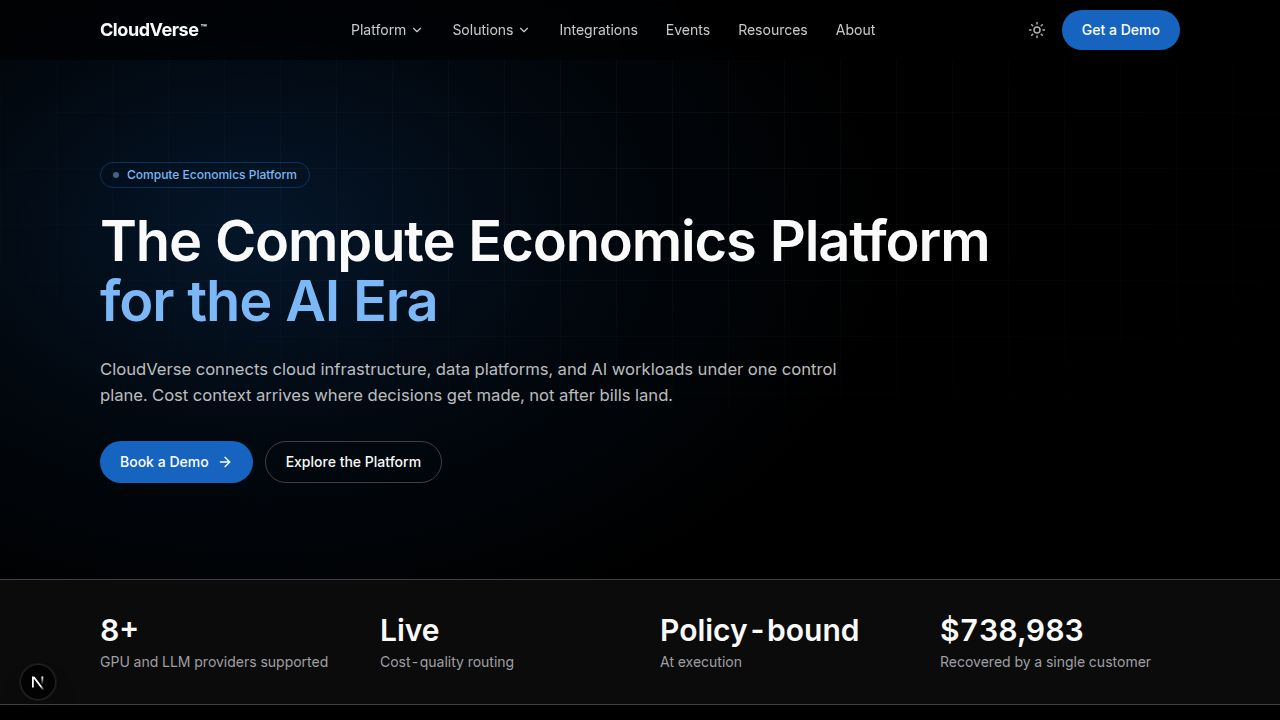
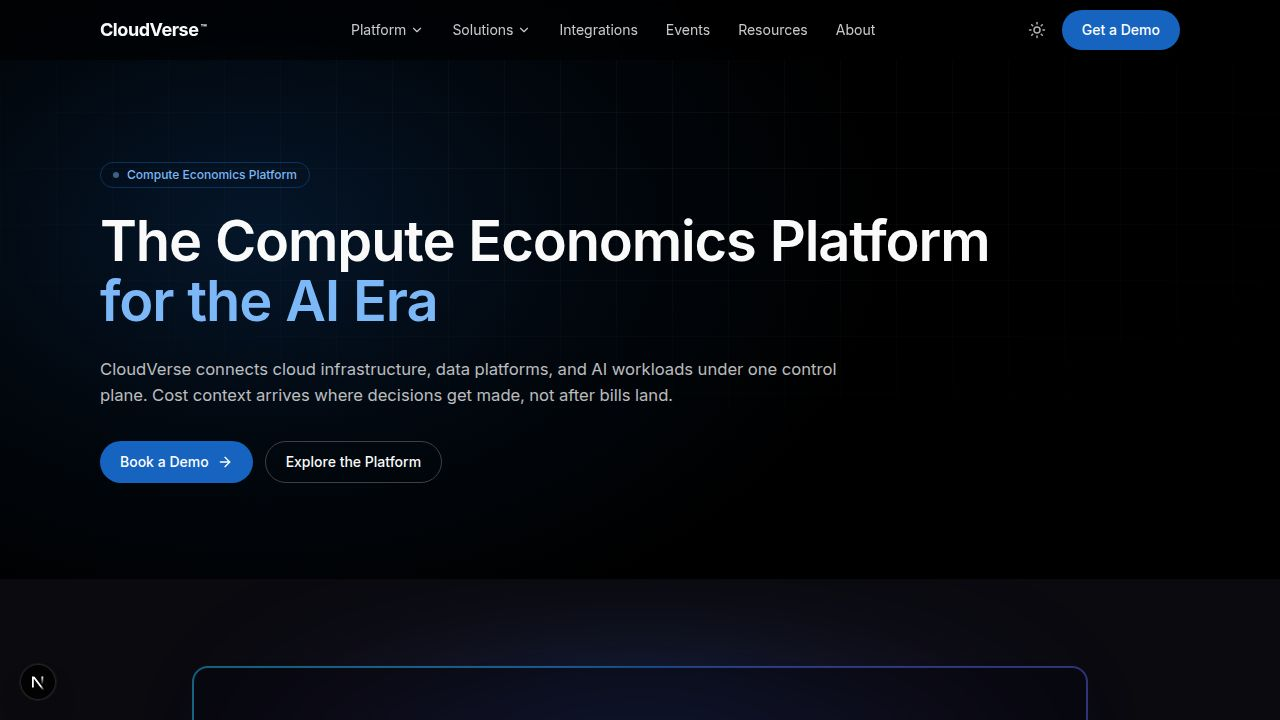
Add an animated product video to the homepage with interactive scroll effects
Updates build manifests, client reference manifest, and removes the dynamic route for resources/[slug]/page.

Replit-Commit-Author: Agent
Replit-Commit-Session-Id: abc5bffa-7bc3-4942-b97e-5bf68d11328f
Replit-Commit-Checkpoint-Type: full_checkpoint
Replit-Commit-Event-Id: 0665890a-a03d-449c-ad68-3ea9afaf62b6
Replit-Commit-Screenshot-Url: https://storage.googleapis.com/screenshot-production-us-central1/d8dacd2f-b214-4560-9121-caa3bb9575fb/abc5bffa-7bc3-4942-b97e-5bf68d11328f/KFAGZMh
Replit-Helium-Checkpoint-Created: true

diff --git a/components/home/ProductVideo.tsx b/components/home/ProductVideo.tsx
@@ -1,0 +1,74 @@
+"use client";
+
+import { useEffect, useRef, useState } from "react";
+
+export function ProductVideo() {
+  const ref = useRef<HTMLDivElement>(null);
+  const [visible, setVisible] = useState(false);
+
+  useEffect(() => {
+    const el = ref.current;
+    if (!el) return;
+    const obs = new IntersectionObserver(
+      ([entry]) => {
+        if (entry.isIntersecting) {
+          setVisible(true);
+          obs.disconnect();
+        }
+      },
+      { threshold: 0.25 },
+    );
+    obs.observe(el);
+    return () => obs.disconnect();
+  }, []);
+
+  return (
+    <section
+      className="relative overflow-hidden bg-[#0a0a0f] pt-10 pb-24 sm:pt-12 sm:pb-28 lg:pt-16 lg:pb-36"
+      data-testid="section-product-video"
+    >
+      <div className="cv-container">
+        <div ref={ref} className="relative mx-auto max-w-4xl">
+          {/* Soft blue glow underneath */}
+          <div
+            aria-hidden
+            className="pointer-events-none absolute -inset-x-10 bottom-[-60px] h-48 blur-3xl"
+            style={{
+              background:
+                "radial-gradient(ellipse 60% 100% at 50% 50%, rgba(34, 119, 224, 0.45) 0%, rgba(105, 84, 212, 0.18) 45%, transparent 75%)",
+            }}
+          />
+
+          {/* Video window with rotating gradient ring */}
+          <div
+            className={`relative rounded-2xl p-[2px] shadow-2xl shadow-cv-blue/20 cv-video-ring ${
+              visible ? "cv-video-rise" : "opacity-0"
+            }`}
+          >
+            <div className="overflow-hidden rounded-[14px] bg-[#070710]">
+              <video
+                className="block h-auto w-full"
+                src="/product-video.mp4"
+                autoPlay
+                loop
+                muted
+                playsInline
+                preload="auto"
+                data-testid="video-product"
+              />
+            </div>
+          </div>
+        </div>
+      </div>
+
+      {/* Dissolve into next section */}
+      <div
+        aria-hidden
+        className="pointer-events-none absolute inset-x-0 bottom-0 h-32"
+        style={{
+          background: "linear-gradient(to bottom, transparent, #0a0a0f)",
+        }}
+      />
+    </section>
+  );
+}

diff --git a/app/globals.css b/app/globals.css
@@ -161,3 +161,34 @@
   .scrollbar-hide { -ms-overflow-style: none; scrollbar-width: none; }
   .scrollbar-hide::-webkit-scrollbar { display: none; }
 }
+
+/* Rotating conic gradient border for ProductVideo */
+@property --cv-ring-angle {
+  syntax: "<angle>";
+  initial-value: 0deg;
+  inherits: false;
+}
+@keyframes cv-ring-spin {
+  to { --cv-ring-angle: 360deg; }
+}
+.cv-video-ring {
+  background: conic-gradient(
+    from var(--cv-ring-angle),
+    #2277e0,
+    #6954d4,
+    #22d3ee,
+    #2277e0
+  );
+  animation: cv-ring-spin 6s linear infinite;
+}
+@keyframes cv-video-rise {
+  from { opacity: 0; transform: translateY(48px); }
+  to { opacity: 1; transform: translateY(0); }
+}
+.cv-video-rise {
+  animation: cv-video-rise 1.2s cubic-bezier(0.22, 1, 0.36, 1) both;
+}
+@media (prefers-reduced-motion: reduce) {
+  .cv-video-ring { animation: none; }
+  .cv-video-rise { animation: none; opacity: 1; transform: none; }
+}

diff --git a/app/page.tsx b/app/page.tsx
@@ -2,6 +2,7 @@ import Link from "next/link";
 import { ArrowRight, Check } from "lucide-react";
 import { CustomerLogos } from "@/components/CustomerLogos";
 import { InvoiceEfficiency } from "@/components/home/InvoiceEfficiency";
+import { ProductVideo } from "@/components/home/ProductVideo";
 import { DEMO_URL } from "@/lib/links";
 
 const STATS = [
@@ -89,6 +90,9 @@ export default function HomePage() {
           </div>
         </div>
       </section>
+
+      {/* PRODUCT VIDEO */}
+      <ProductVideo />
 
       {/* STATS STRIP */}
       <section className="border-y border-cv-line bg-cv-surface2/40">
